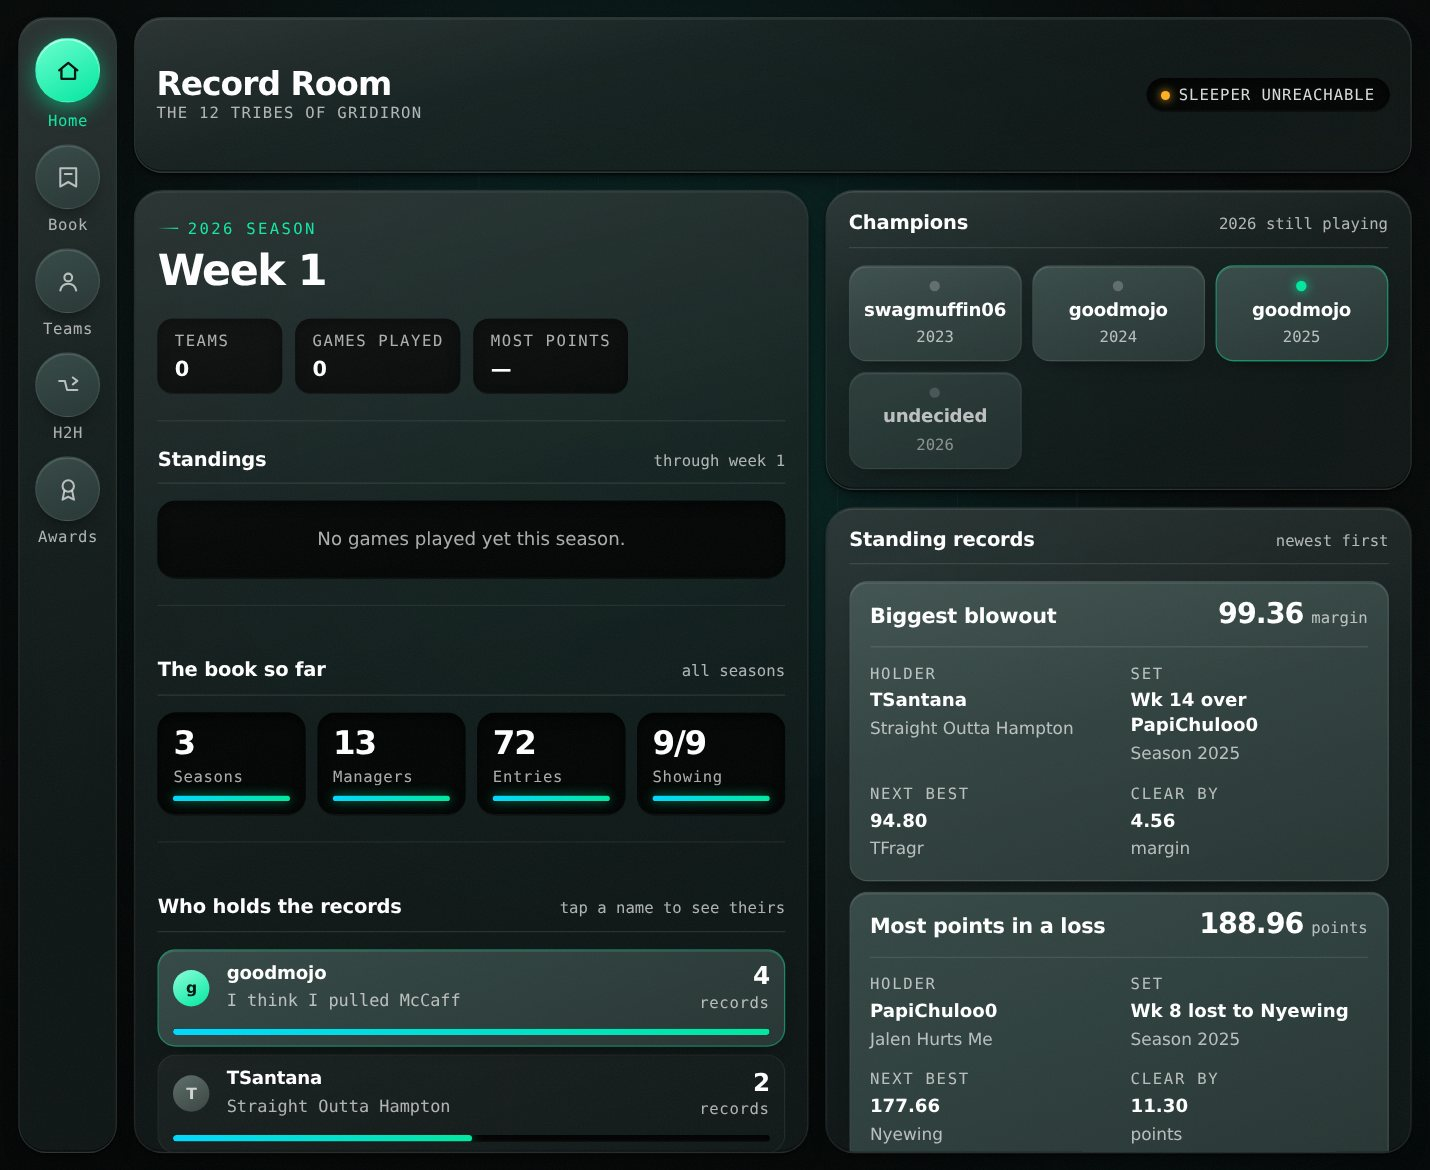
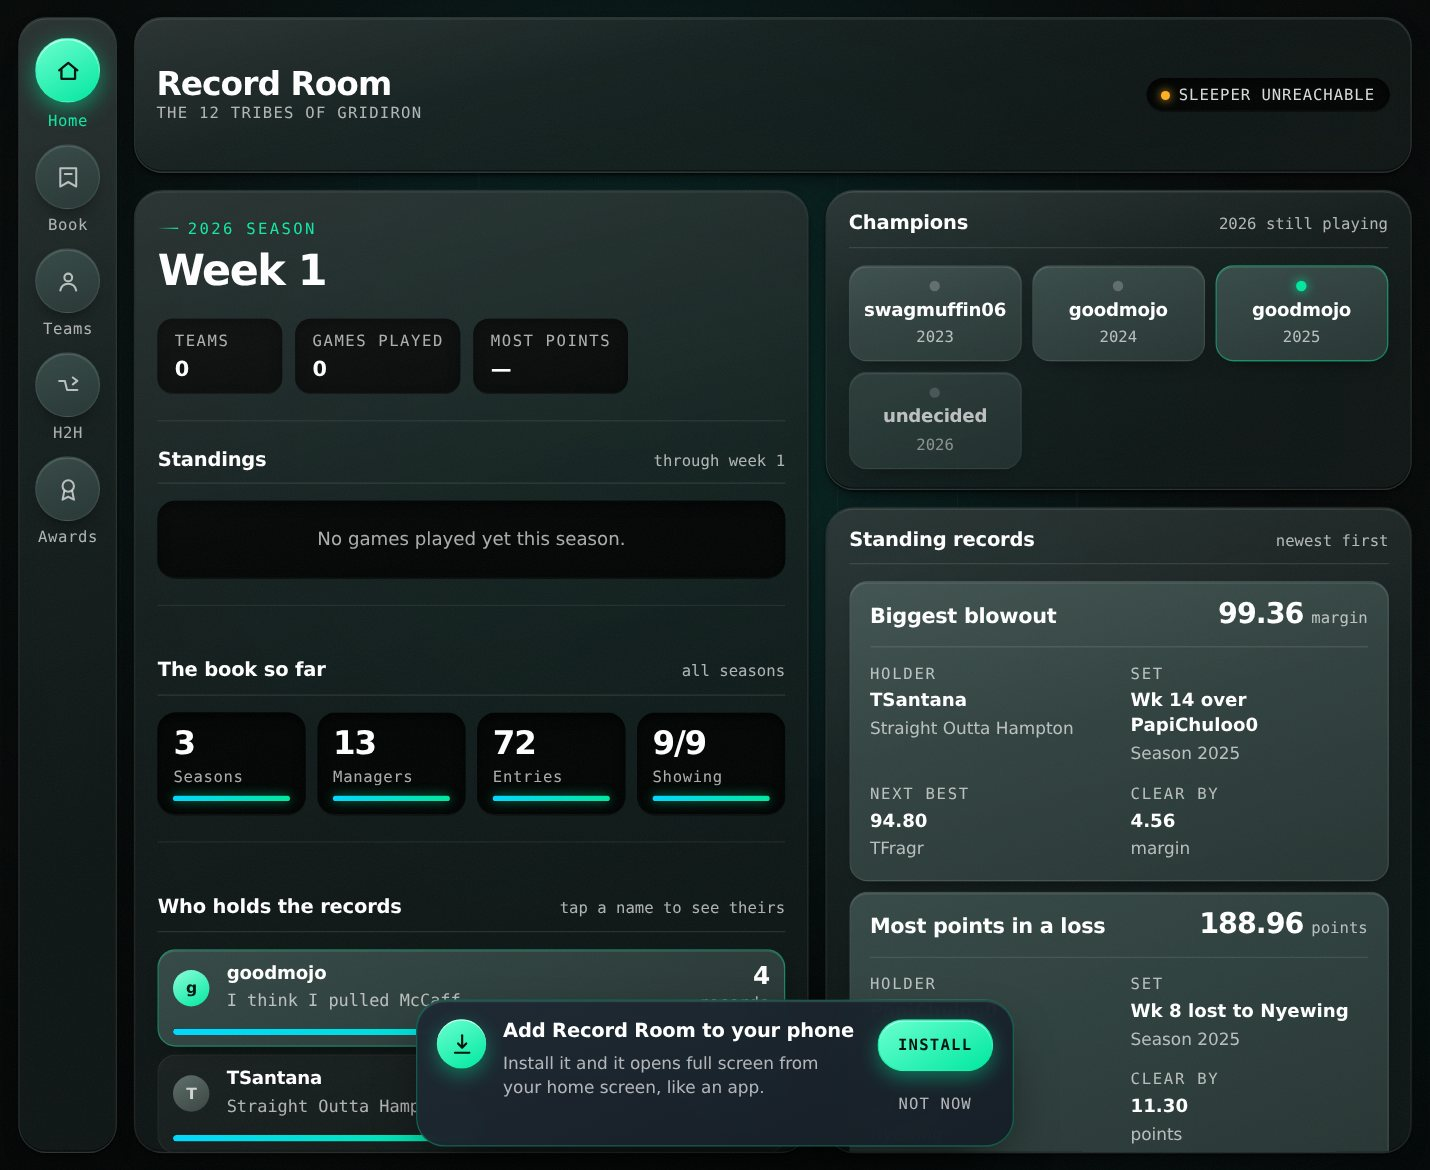
Offer to install on first visit
An installable site nobody knows is installable gets used in a browser tab, so
a banner now says so on arrival. Chrome hands over an event the Install button
fires directly; iOS has no such API, so there the banner names the two taps
rather than pretending to do it for them. Neither appears once the app is
already installed, and Not now is remembered.

The banner sits above the bottom dock by measuring it rather than assuming a
clearance, since the dock's height moves with the phone's safe area, and it
repositions on resize. A first pass did assume, and overlapped.

Verified on an iPhone user agent over HTTP: the instructions appear, clear the
dock, stay dismissed across a reload, and never show when the page reports
itself as installed.

Claude-Session: https://claude.ai/code/session_01TiNMvjTDK6Q7mnYRtzpeH8

Changed region(s): [[0.2769, 0.8308, 0.7077, 0.9846]]

diff --git a/public/index.html b/public/index.html
@@ -469,6 +469,37 @@ button{font:inherit;color:inherit}
 /* ═══ dialog ═══ */
 dialog{border:none;padding:0;background:transparent;max-width:min(440px,92vw);width:100%}
 dialog::backdrop{background:rgba(2,5,4,.78);backdrop-filter:blur(3px)}
+.installbar{position:fixed;z-index:45;left:50%;transform:translateX(-50%);
+  bottom:calc(18px + env(safe-area-inset-bottom,0px));width:min(460px,calc(100vw - 28px));
+  display:flex;align-items:flex-start;gap:13px;padding:14px 15px;border-radius:var(--r);
+  background:linear-gradient(158deg,rgba(32,42,52,.98),rgba(22,30,38,.97));
+  backdrop-filter:blur(18px) saturate(160%);-webkit-backdrop-filter:blur(18px) saturate(160%);
+  border:1px solid rgba(0,232,160,.3);
+  box-shadow:0 18px 44px -18px rgba(0,0,0,.95),inset 0 1px 0 rgba(255,255,255,.12);
+  animation:ibrise .45s cubic-bezier(.2,.8,.2,1) both}
+@keyframes ibrise{from{opacity:0;transform:translateX(-50%) translateY(14px)}}
+.ib-icon{flex:none;width:38px;height:38px;border-radius:50%;display:grid;place-items:center;
+  background:linear-gradient(150deg,#6BFFCF,var(--accent));
+  box-shadow:0 5px 15px rgba(0,232,160,.4),inset 0 1px 0 rgba(255,255,255,.65)}
+.ib-icon svg{width:19px;height:19px;fill:none;stroke:var(--on-accent);stroke-width:2.1;
+  stroke-linecap:round;stroke-linejoin:round}
+.ib-text{flex:1;min-width:0}
+.ib-text b{display:block;font-size:15px;font-weight:700;letter-spacing:-.01em;line-height:1.3}
+.ib-text span{display:block;font-size:13px;color:var(--ink-3);margin-top:5px;line-height:1.5}
+.ib-actions{display:flex;flex-direction:column;gap:7px;flex:none}
+.installbar .ib-go{min-height:40px;white-space:nowrap;border:1px solid rgba(0,232,160,.5);
+  background:linear-gradient(150deg,#6BFFCF,var(--accent));color:var(--on-accent);font-weight:700;
+  box-shadow:0 5px 15px rgba(0,232,160,.4),inset 0 1px 0 rgba(255,255,255,.6)}
+.installbar .ib-go:hover{filter:brightness(1.06)}
+.ib-no{min-height:36px;border:none;background:transparent;cursor:pointer;color:var(--ink-3);
+  font-family:var(--mono);font-size:12px;letter-spacing:.07em;text-transform:uppercase}
+.ib-no:hover{color:var(--ink)}
+@media(max-width:699px){
+  .installbar{bottom:calc(96px + env(safe-area-inset-bottom,0px));flex-wrap:wrap}
+  .ib-actions{flex-direction:row;width:100%;gap:9px}
+  .installbar .ib-go{flex:1;min-height:46px}
+  .ib-no{min-height:46px;padding:0 14px}
+}
 .dlg{padding:17px;position:relative}
 #mdlgBody .rc,#mdlgBody .rsub{white-space:normal}
 .dlghead{position:sticky;top:0;z-index:2;display:flex;align-items:flex-start;gap:13px;
@@ -710,6 +741,20 @@ dialog::backdrop{background:rgba(2,5,4,.78);backdrop-filter:blur(3px)}
         <div class="agrid" id="agrid"></div>
       </div>
     </section>
+  </div>
+</div>
+
+<div class="installbar" id="installBar" hidden role="region" aria-label="Install Record Room">
+  <div class="ib-icon" aria-hidden="true">
+    <svg viewBox="0 0 24 24"><path d="M12 3v11"/><path d="M8 11l4 4 4-4"/><path d="M5 20h14"/></svg>
+  </div>
+  <div class="ib-text">
+    <b id="ibTitle">Add Record Room to your phone</b>
+    <span id="ibBody">Install it and it opens full screen from your home screen, like an app.</span>
+  </div>
+  <div class="ib-actions">
+    <button class="ghostbtn ib-go" type="button" id="ibGo">Install</button>
+    <button class="ib-no" type="button" id="ibNo" aria-label="Dismiss">Not now</button>
   </div>
 </div>
 
@@ -1323,6 +1368,50 @@ try{
 paintAll();
 setLive(stamp?'ok':'busy',stamp?('Saved · '+clock(stamp)):'Loading');
 $('refreshBtn').addEventListener('click',refresh);
+
+/* Install prompt. Chrome hands us an event we can fire on demand; iOS has no
+   such API, so there the banner explains the two taps instead of pretending
+   to do it. Neither shows once the app is already installed. */
+const INSTALL_SEEN='recordroom.install.dismissed';
+let deferredInstall=null;
+const installed=()=>matchMedia('(display-mode: standalone)').matches||navigator.standalone===true;
+const dismissed=()=>{try{return localStorage.getItem(INSTALL_SEEN)==='1';}catch(e){return false;}};
+const dismiss=()=>{try{localStorage.setItem(INSTALL_SEEN,'1');}catch(e){}
+  $('installBar').hidden=true;};
+/* The dock is fixed on a phone and its height moves with the safe area, so
+   the banner is placed above whatever the dock actually measures. */
+function placeInstall(){
+  const bar=$('installBar');if(bar.hidden)return;
+  const dock=document.querySelector('.dock');
+  if(!dock||getComputedStyle(dock).position!=='fixed'){bar.style.bottom='';return;}
+  bar.style.bottom=Math.round(innerHeight-dock.getBoundingClientRect().top+14)+'px';
+}
+addEventListener('resize',placeInstall);
+function showInstall(kind){
+  if(installed()||dismissed())return;
+  const bar=$('installBar');
+  if(kind==='ios'){
+    $('ibTitle').textContent='Add Record Room to your home screen';
+    $('ibBody').innerHTML='Tap Share, then <b style="color:var(--ink-2)">Add to Home Screen</b> '+
+      '&mdash; it opens full screen, like an app.';
+    $('ibGo').textContent='Got it';
+  }
+  bar.hidden=false;
+  placeInstall();
+}
+$('ibNo').addEventListener('click',dismiss);
+$('ibGo').addEventListener('click',async()=>{
+  if(!deferredInstall){dismiss();return;}          // iOS: the button just acknowledges
+  deferredInstall.prompt();
+  try{await deferredInstall.userChoice;}catch(e){}
+  deferredInstall=null;dismiss();
+});
+addEventListener('beforeinstallprompt',e=>{e.preventDefault();deferredInstall=e;showInstall('prompt');});
+addEventListener('appinstalled',()=>dismiss());
+// iOS never fires that event, so offer the instructions there after a beat
+if(/iphone|ipad|ipod/i.test(navigator.userAgent)&&!/crios|fxios|edgios/i.test(navigator.userAgent)){
+  setTimeout(()=>showInstall('ios'),1400);
+}
 refresh();
 setInterval(refresh,10*60*1000);
 </script>

diff --git a/samples/record-room-standalone.html b/samples/record-room-standalone.html
@@ -469,6 +469,37 @@ button{font:inherit;color:inherit}
 /* ═══ dialog ═══ */
 dialog{border:none;padding:0;background:transparent;max-width:min(440px,92vw);width:100%}
 dialog::backdrop{background:rgba(2,5,4,.78);backdrop-filter:blur(3px)}
+.installbar{position:fixed;z-index:45;left:50%;transform:translateX(-50%);
+  bottom:calc(18px + env(safe-area-inset-bottom,0px));width:min(460px,calc(100vw - 28px));
+  display:flex;align-items:flex-start;gap:13px;padding:14px 15px;border-radius:var(--r);
+  background:linear-gradient(158deg,rgba(32,42,52,.98),rgba(22,30,38,.97));
+  backdrop-filter:blur(18px) saturate(160%);-webkit-backdrop-filter:blur(18px) saturate(160%);
+  border:1px solid rgba(0,232,160,.3);
+  box-shadow:0 18px 44px -18px rgba(0,0,0,.95),inset 0 1px 0 rgba(255,255,255,.12);
+  animation:ibrise .45s cubic-bezier(.2,.8,.2,1) both}
+@keyframes ibrise{from{opacity:0;transform:translateX(-50%) translateY(14px)}}
+.ib-icon{flex:none;width:38px;height:38px;border-radius:50%;display:grid;place-items:center;
+  background:linear-gradient(150deg,#6BFFCF,var(--accent));
+  box-shadow:0 5px 15px rgba(0,232,160,.4),inset 0 1px 0 rgba(255,255,255,.65)}
+.ib-icon svg{width:19px;height:19px;fill:none;stroke:var(--on-accent);stroke-width:2.1;
+  stroke-linecap:round;stroke-linejoin:round}
+.ib-text{flex:1;min-width:0}
+.ib-text b{display:block;font-size:15px;font-weight:700;letter-spacing:-.01em;line-height:1.3}
+.ib-text span{display:block;font-size:13px;color:var(--ink-3);margin-top:5px;line-height:1.5}
+.ib-actions{display:flex;flex-direction:column;gap:7px;flex:none}
+.installbar .ib-go{min-height:40px;white-space:nowrap;border:1px solid rgba(0,232,160,.5);
+  background:linear-gradient(150deg,#6BFFCF,var(--accent));color:var(--on-accent);font-weight:700;
+  box-shadow:0 5px 15px rgba(0,232,160,.4),inset 0 1px 0 rgba(255,255,255,.6)}
+.installbar .ib-go:hover{filter:brightness(1.06)}
+.ib-no{min-height:36px;border:none;background:transparent;cursor:pointer;color:var(--ink-3);
+  font-family:var(--mono);font-size:12px;letter-spacing:.07em;text-transform:uppercase}
+.ib-no:hover{color:var(--ink)}
+@media(max-width:699px){
+  .installbar{bottom:calc(96px + env(safe-area-inset-bottom,0px));flex-wrap:wrap}
+  .ib-actions{flex-direction:row;width:100%;gap:9px}
+  .installbar .ib-go{flex:1;min-height:46px}
+  .ib-no{min-height:46px;padding:0 14px}
+}
 .dlg{padding:17px;position:relative}
 #mdlgBody .rc,#mdlgBody .rsub{white-space:normal}
 .dlghead{position:sticky;top:0;z-index:2;display:flex;align-items:flex-start;gap:13px;
@@ -710,6 +741,20 @@ dialog::backdrop{background:rgba(2,5,4,.78);backdrop-filter:blur(3px)}
         <div class="agrid" id="agrid"></div>
       </div>
     </section>
+  </div>
+</div>
+
+<div class="installbar" id="installBar" hidden role="region" aria-label="Install Record Room">
+  <div class="ib-icon" aria-hidden="true">
+    <svg viewBox="0 0 24 24"><path d="M12 3v11"/><path d="M8 11l4 4 4-4"/><path d="M5 20h14"/></svg>
+  </div>
+  <div class="ib-text">
+    <b id="ibTitle">Add Record Room to your phone</b>
+    <span id="ibBody">Install it and it opens full screen from your home screen, like an app.</span>
+  </div>
+  <div class="ib-actions">
+    <button class="ghostbtn ib-go" type="button" id="ibGo">Install</button>
+    <button class="ib-no" type="button" id="ibNo" aria-label="Dismiss">Not now</button>
   </div>
 </div>
 
@@ -1323,6 +1368,50 @@ try{
 paintAll();
 setLive(stamp?'ok':'busy',stamp?('Saved · '+clock(stamp)):'Loading');
 $('refreshBtn').addEventListener('click',refresh);
+
+/* Install prompt. Chrome hands us an event we can fire on demand; iOS has no
+   such API, so there the banner explains the two taps instead of pretending
+   to do it. Neither shows once the app is already installed. */
+const INSTALL_SEEN='recordroom.install.dismissed';
+let deferredInstall=null;
+const installed=()=>matchMedia('(display-mode: standalone)').matches||navigator.standalone===true;
+const dismissed=()=>{try{return localStorage.getItem(INSTALL_SEEN)==='1';}catch(e){return false;}};
+const dismiss=()=>{try{localStorage.setItem(INSTALL_SEEN,'1');}catch(e){}
+  $('installBar').hidden=true;};
+/* The dock is fixed on a phone and its height moves with the safe area, so
+   the banner is placed above whatever the dock actually measures. */
+function placeInstall(){
+  const bar=$('installBar');if(bar.hidden)return;
+  const dock=document.querySelector('.dock');
+  if(!dock||getComputedStyle(dock).position!=='fixed'){bar.style.bottom='';return;}
+  bar.style.bottom=Math.round(innerHeight-dock.getBoundingClientRect().top+14)+'px';
+}
+addEventListener('resize',placeInstall);
+function showInstall(kind){
+  if(installed()||dismissed())return;
+  const bar=$('installBar');
+  if(kind==='ios'){
+    $('ibTitle').textContent='Add Record Room to your home screen';
+    $('ibBody').innerHTML='Tap Share, then <b style="color:var(--ink-2)">Add to Home Screen</b> '+
+      '&mdash; it opens full screen, like an app.';
+    $('ibGo').textContent='Got it';
+  }
+  bar.hidden=false;
+  placeInstall();
+}
+$('ibNo').addEventListener('click',dismiss);
+$('ibGo').addEventListener('click',async()=>{
+  if(!deferredInstall){dismiss();return;}          // iOS: the button just acknowledges
+  deferredInstall.prompt();
+  try{await deferredInstall.userChoice;}catch(e){}
+  deferredInstall=null;dismiss();
+});
+addEventListener('beforeinstallprompt',e=>{e.preventDefault();deferredInstall=e;showInstall('prompt');});
+addEventListener('appinstalled',()=>dismiss());
+// iOS never fires that event, so offer the instructions there after a beat
+if(/iphone|ipad|ipod/i.test(navigator.userAgent)&&!/crios|fxios|edgios/i.test(navigator.userAgent)){
+  setTimeout(()=>showInstall('ios'),1400);
+}
 refresh();
 setInterval(refresh,10*60*1000);
 </script>

diff --git a/samples/record-room.html b/samples/record-room.html
@@ -454,6 +454,37 @@ button{font:inherit;color:inherit}
 /* ═══ dialog ═══ */
 dialog{border:none;padding:0;background:transparent;max-width:min(440px,92vw);width:100%}
 dialog::backdrop{background:rgba(2,5,4,.78);backdrop-filter:blur(3px)}
+.installbar{position:fixed;z-index:45;left:50%;transform:translateX(-50%);
+  bottom:calc(18px + env(safe-area-inset-bottom,0px));width:min(460px,calc(100vw - 28px));
+  display:flex;align-items:flex-start;gap:13px;padding:14px 15px;border-radius:var(--r);
+  background:linear-gradient(158deg,rgba(32,42,52,.98),rgba(22,30,38,.97));
+  backdrop-filter:blur(18px) saturate(160%);-webkit-backdrop-filter:blur(18px) saturate(160%);
+  border:1px solid rgba(0,232,160,.3);
+  box-shadow:0 18px 44px -18px rgba(0,0,0,.95),inset 0 1px 0 rgba(255,255,255,.12);
+  animation:ibrise .45s cubic-bezier(.2,.8,.2,1) both}
+@keyframes ibrise{from{opacity:0;transform:translateX(-50%) translateY(14px)}}
+.ib-icon{flex:none;width:38px;height:38px;border-radius:50%;display:grid;place-items:center;
+  background:linear-gradient(150deg,#6BFFCF,var(--accent));
+  box-shadow:0 5px 15px rgba(0,232,160,.4),inset 0 1px 0 rgba(255,255,255,.65)}
+.ib-icon svg{width:19px;height:19px;fill:none;stroke:var(--on-accent);stroke-width:2.1;
+  stroke-linecap:round;stroke-linejoin:round}
+.ib-text{flex:1;min-width:0}
+.ib-text b{display:block;font-size:15px;font-weight:700;letter-spacing:-.01em;line-height:1.3}
+.ib-text span{display:block;font-size:13px;color:var(--ink-3);margin-top:5px;line-height:1.5}
+.ib-actions{display:flex;flex-direction:column;gap:7px;flex:none}
+.installbar .ib-go{min-height:40px;white-space:nowrap;border:1px solid rgba(0,232,160,.5);
+  background:linear-gradient(150deg,#6BFFCF,var(--accent));color:var(--on-accent);font-weight:700;
+  box-shadow:0 5px 15px rgba(0,232,160,.4),inset 0 1px 0 rgba(255,255,255,.6)}
+.installbar .ib-go:hover{filter:brightness(1.06)}
+.ib-no{min-height:36px;border:none;background:transparent;cursor:pointer;color:var(--ink-3);
+  font-family:var(--mono);font-size:12px;letter-spacing:.07em;text-transform:uppercase}
+.ib-no:hover{color:var(--ink)}
+@media(max-width:699px){
+  .installbar{bottom:calc(96px + env(safe-area-inset-bottom,0px));flex-wrap:wrap}
+  .ib-actions{flex-direction:row;width:100%;gap:9px}
+  .installbar .ib-go{flex:1;min-height:46px}
+  .ib-no{min-height:46px;padding:0 14px}
+}
 .dlg{padding:17px;position:relative}
 #mdlgBody .rc,#mdlgBody .rsub{white-space:normal}
 .dlghead{position:sticky;top:0;z-index:2;display:flex;align-items:flex-start;gap:13px;
@@ -692,6 +723,20 @@ dialog::backdrop{background:rgba(2,5,4,.78);backdrop-filter:blur(3px)}
         <div class="agrid" id="agrid"></div>
       </div>
     </section>
+  </div>
+</div>
+
+<div class="installbar" id="installBar" hidden role="region" aria-label="Install Record Room">
+  <div class="ib-icon" aria-hidden="true">
+    <svg viewBox="0 0 24 24"><path d="M12 3v11"/><path d="M8 11l4 4 4-4"/><path d="M5 20h14"/></svg>
+  </div>
+  <div class="ib-text">
+    <b id="ibTitle">Add Record Room to your phone</b>
+    <span id="ibBody">Install it and it opens full screen from your home screen, like an app.</span>
+  </div>
+  <div class="ib-actions">
+    <button class="ghostbtn ib-go" type="button" id="ibGo">Install</button>
+    <button class="ib-no" type="button" id="ibNo" aria-label="Dismiss">Not now</button>
   </div>
 </div>
 
@@ -1305,6 +1350,50 @@ try{
 paintAll();
 setLive(stamp?'ok':'busy',stamp?('Saved · '+clock(stamp)):'Loading');
 $('refreshBtn').addEventListener('click',refresh);
+
+/* Install prompt. Chrome hands us an event we can fire on demand; iOS has no
+   such API, so there the banner explains the two taps instead of pretending
+   to do it. Neither shows once the app is already installed. */
+const INSTALL_SEEN='recordroom.install.dismissed';
+let deferredInstall=null;
+const installed=()=>matchMedia('(display-mode: standalone)').matches||navigator.standalone===true;
+const dismissed=()=>{try{return localStorage.getItem(INSTALL_SEEN)==='1';}catch(e){return false;}};
+const dismiss=()=>{try{localStorage.setItem(INSTALL_SEEN,'1');}catch(e){}
+  $('installBar').hidden=true;};
+/* The dock is fixed on a phone and its height moves with the safe area, so
+   the banner is placed above whatever the dock actually measures. */
+function placeInstall(){
+  const bar=$('installBar');if(bar.hidden)return;
+  const dock=document.querySelector('.dock');
+  if(!dock||getComputedStyle(dock).position!=='fixed'){bar.style.bottom='';return;}
+  bar.style.bottom=Math.round(innerHeight-dock.getBoundingClientRect().top+14)+'px';
+}
+addEventListener('resize',placeInstall);
+function showInstall(kind){
+  if(installed()||dismissed())return;
+  const bar=$('installBar');
+  if(kind==='ios'){
+    $('ibTitle').textContent='Add Record Room to your home screen';
+    $('ibBody').innerHTML='Tap Share, then <b style="color:var(--ink-2)">Add to Home Screen</b> '+
+      '&mdash; it opens full screen, like an app.';
+    $('ibGo').textContent='Got it';
+  }
+  bar.hidden=false;
+  placeInstall();
+}
+$('ibNo').addEventListener('click',dismiss);
+$('ibGo').addEventListener('click',async()=>{
+  if(!deferredInstall){dismiss();return;}          // iOS: the button just acknowledges
+  deferredInstall.prompt();
+  try{await deferredInstall.userChoice;}catch(e){}
+  deferredInstall=null;dismiss();
+});
+addEventListener('beforeinstallprompt',e=>{e.preventDefault();deferredInstall=e;showInstall('prompt');});
+addEventListener('appinstalled',()=>dismiss());
+// iOS never fires that event, so offer the instructions there after a beat
+if(/iphone|ipad|ipod/i.test(navigator.userAgent)&&!/crios|fxios|edgios/i.test(navigator.userAgent)){
+  setTimeout(()=>showInstall('ios'),1400);
+}
 refresh();
 setInterval(refresh,10*60*1000);
 </script>

diff --git a/public/sw.js b/public/sw.js
@@ -1,5 +1,5 @@
 /* Record Room service worker - generated by samples/tools/build-site.js */
-const VERSION='d68642ee0d08';
+const VERSION='c66807708393';
 const CACHE='record-room-'+VERSION;
 const SHELL=['/','/index.html','/manifest.webmanifest',
   '/icon-192.png','/icon-512.png','/icon-maskable-512.png','/apple-touch-icon.png'];
